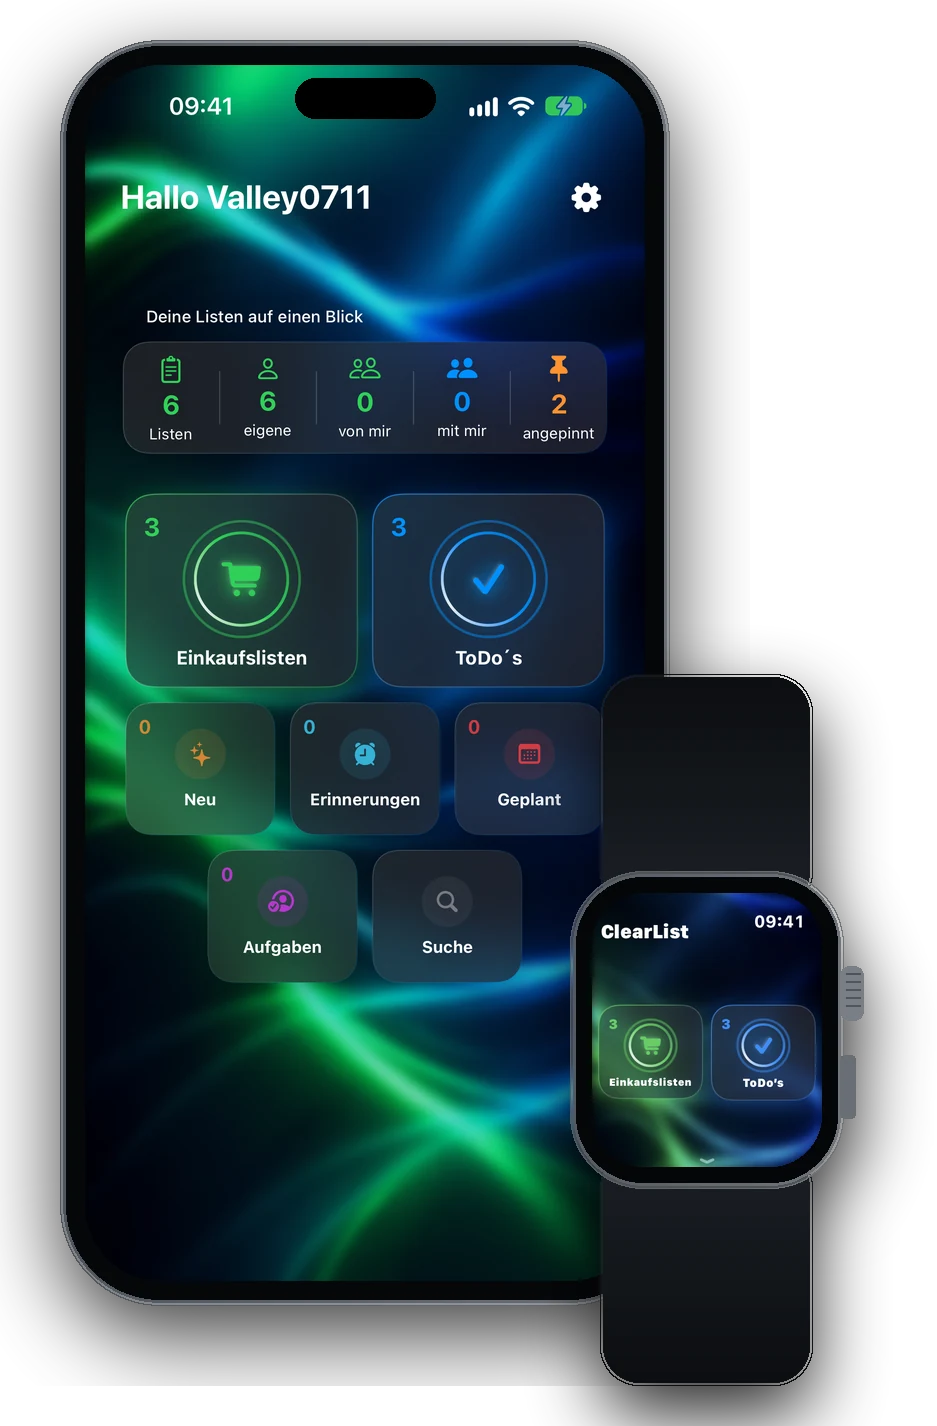
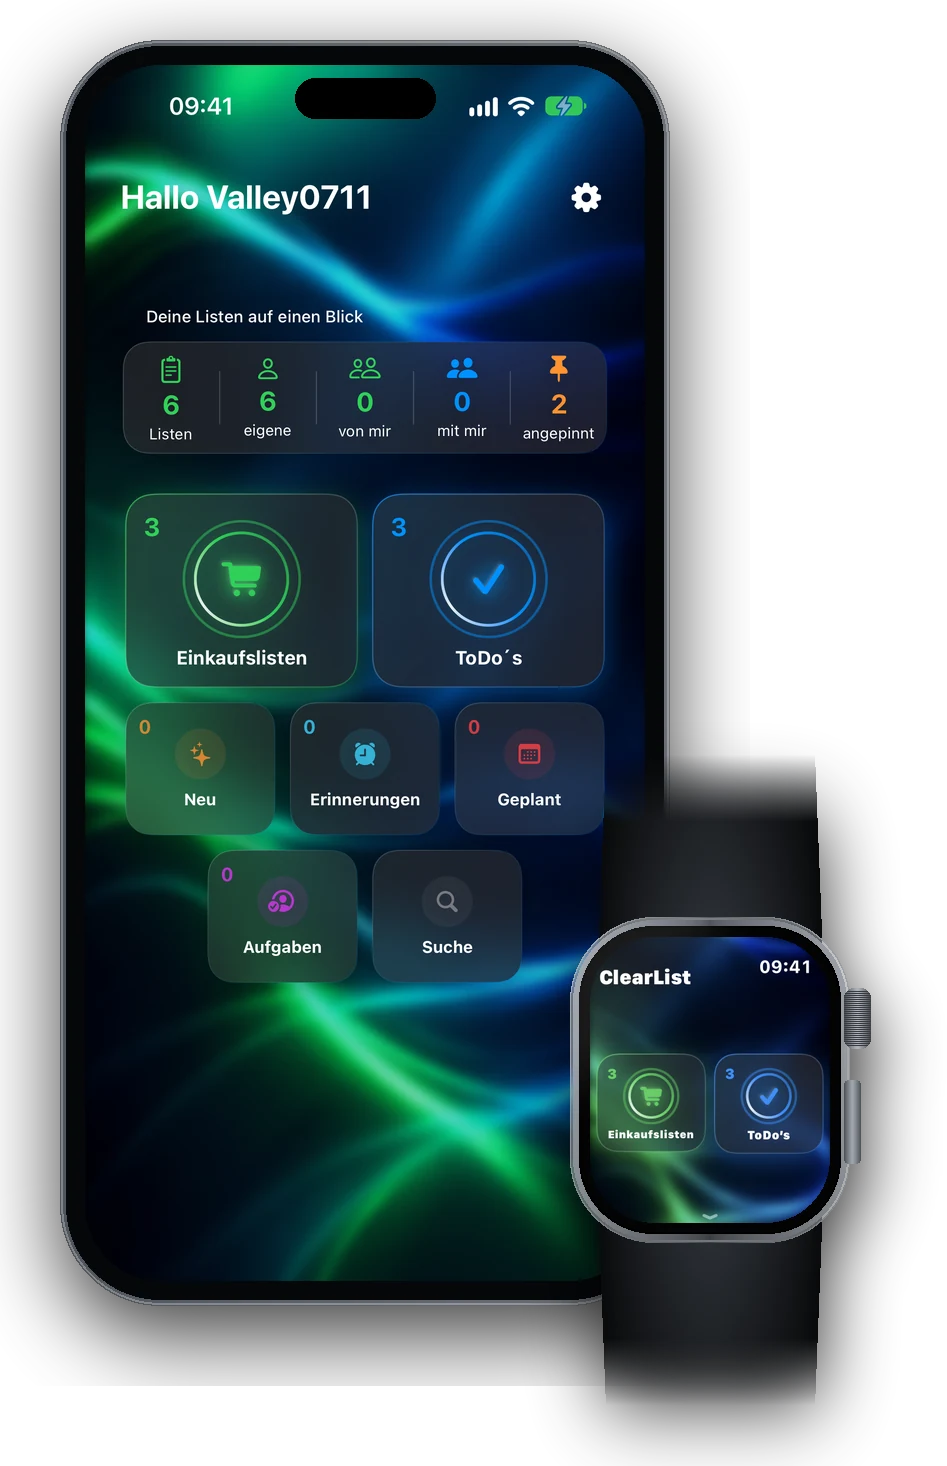
ClearList-Seite: Apple Watch mit Gehaeuse, Krone und Armband realistischer
Claude-Session: https://claude.ai/code/session_01AtYGo9kMH9DZpHi3e3ceu2

diff --git a/clearlist/index.html b/clearlist/index.html
@@ -1,7 +1,7 @@
 <!doctype html>
 <html lang="de"><head><meta charset="utf-8"><meta name="viewport" content="width=device-width,initial-scale=1">
 <meta name="description" content="ClearList macht gemeinsame Einkaufslisten und ToDos einfach – privat geteilt, über iCloud synchronisiert und direkt in iMessage verfügbar.">
-<meta name="robots" content="index,follow"><meta name="theme-color" content="#06110f"><title>ClearList – Gemeinsame Listen, einfach erledigt</title><link rel="stylesheet" href="style.css?v=20261002e"><link rel="canonical" href="https://valley0711.de/clearlist/">
+<meta name="robots" content="index,follow"><meta name="theme-color" content="#06110f"><title>ClearList – Gemeinsame Listen, einfach erledigt</title><link rel="stylesheet" href="style.css?v=20261002f"><link rel="canonical" href="https://valley0711.de/clearlist/">
 <link rel="icon" href="/favicon.ico" sizes="any">
 <link rel="icon" type="image/png" sizes="32x32" href="/clearlist/clearlist-icon-32.png">
 <link rel="apple-touch-icon" href="/clearlist/clearlist-icon-180.png">
@@ -19,7 +19,7 @@
 </head>
 <body><div class="wrap"><div class="valley-bar"><a href="https://valley0711.de">← VALLEY 0711</a><a href="https://valley0711.de/apps/">Alle Apps</a></div>
 <nav class="nav"><a class="brand" href="index.html"><img src="clearlist-app-icon.png" alt="ClearList App-Icon">ClearList</a><div class="links"><a href="#funktionen">Funktionen</a><a href="#einblicke">Einblicke</a><a href="#geraete">Geräte</a><a href="support.html">Support</a></div></nav>
-<main><section class="hero"><div><p class="eyebrow">GEMEINSAM EINFACH ERLEDIGEN</p><h1>Alles im Blick.<br><span>Mit ClearList.</span></h1><p class="lead">Erstelle Einkaufslisten und ToDos, teile sie mit Familie, Freunden oder deinem Partner und bearbeitet sie gemeinsam.</p><div class="buttons"><a class="button primary" href="https://apps.apple.com/de/app/clearlist/id6739069419">Im App Store laden</a><a class="button" href="#funktionen">Funktionen entdecken</a></div></div><div class="visual"><img class="hero-devices" src="clearlist-hero-devices.webp" alt="ClearList auf iPhone und Apple Watch" width="937" height="1426"><div class="status"><b>●</b> Bereit für gemeinsame Listen</div></div></section>
+<main><section class="hero"><div><p class="eyebrow">GEMEINSAM EINFACH ERLEDIGEN</p><h1>Alles im Blick.<br><span>Mit ClearList.</span></h1><p class="lead">Erstelle Einkaufslisten und ToDos, teile sie mit Familie, Freunden oder deinem Partner und bearbeitet sie gemeinsam.</p><div class="buttons"><a class="button primary" href="https://apps.apple.com/de/app/clearlist/id6739069419">Im App Store laden</a><a class="button" href="#funktionen">Funktionen entdecken</a></div></div><div class="visual"><img class="hero-devices" src="clearlist-hero-devices.webp" alt="ClearList auf iPhone und Apple Watch" width="947" height="1466"><div class="status"><b>●</b> Bereit für gemeinsame Listen</div></div></section>
 <section id="funktionen" class="section"><p class="eyebrow">EINFACH UND GEMEINSAM</p><h2>Eine Liste. Alle auf demselben Stand.</h2><p class="sub">Ob Wocheneinkauf, Urlaubsplanung oder gemeinsame Aufgaben – Einträge lassen sich hinzufügen, abhaken oder löschen und bleiben über iCloud aktuell.</p><div class="grid"><article class="card"><small>01</small><h3>Einkaufslisten &amp; ToDos</h3><p>Erstelle übersichtliche Listen für Einkäufe, Aufgaben und gemeinsame Pläne.</p></article><article class="card"><small>02</small><h3>Privat teilen</h3><p>Nur ausdrücklich eingeladene Personen erhalten Zugriff – ohne öffentliche Listenlinks.</p></article><article class="card"><small>03</small><h3>Über iCloud synchron</h3><p>Gemeinsame Änderungen werden mit CloudKit auf allen beteiligten Geräten aktuell gehalten.</p></article><article class="card"><small>04</small><h3>Direkt in iMessage</h3><p>Öffne und verwende ClearList direkt in deinen Unterhaltungen.</p></article></div></section>
 <section id="einblicke" class="section"><p class="eyebrow">SO SIEHT CLEARLIST AUS</p><h2>Übersichtlich. Reduziert. Direkt.</h2><p class="sub">ClearList konzentriert sich auf das Wesentliche: schnell eine Liste erstellen, gemeinsam bearbeiten und erledigen.</p><div class="gallery promo"><figure><img src="clearlist-promo-1.jpg" alt="Startseite von ClearList" loading="lazy"><figcaption><b>Alles auf einen Blick.</b><span>Listen anpinnen, terminieren und mit Priorität, Tags und Erinnerung versehen.</span></figcaption></figure><figure><img src="clearlist-promo-2.jpg" alt="Einkaufsliste Grillen mit Freunden" loading="lazy"><figcaption><b>Für den nächsten Einkauf.</b><span>Abhaken, priorisieren und Einträge an Personen zuweisen.</span></figcaption></figure><figure><img src="clearlist-promo-3.jpg" alt="ToDo-Liste Garage aufräumen" loading="lazy"><figcaption><b>Aufgaben gemeinsam erledigen.</b><span>Einträge terminieren, erinnern lassen und gezielt zuweisen.</span></figcaption></figure><figure><img src="clearlist-promo-4.jpg" alt="Suche nach Personen in ClearList" loading="lazy"><figcaption><b>Schnell gefunden.</b><span>Suche nach Listen, Einträgen, Tags und zugewiesenen Personen.</span></figcaption></figure></div></section>
 <section id="geraete" class="section devices"><p class="eyebrow">ÜBERALL DABEI</p><h2>iPhone, iPad, Apple Watch und CarPlay.</h2><p class="sub">Deine Listen sind auf allen Geräten auf demselben Stand – groß auf dem iPad, schnell am Handgelenk und übersichtlich im Auto.</p><div class="device-row promo"><figure><img src="clearlist-promo-6.jpg" alt="ClearList auf iPad, iPhone und Apple Watch" loading="lazy"><figcaption><b>iPhone, iPad und Apple Watch.</b><span>Die volle Übersicht auf dem iPad, schnell abhaken am Handgelenk.</span></figcaption></figure><figure><img src="clearlist-promo-7.jpg" alt="ClearList in CarPlay" loading="lazy"><figcaption><b>CarPlay.</b><span>Einkaufslisten und ToDos übersichtlich für die Fahrt aufbereitet.</span></figcaption></figure></div><div class="device-row"><figure><img src="clearlist-ipad.jpg" alt="ClearList auf dem iPad" loading="lazy"><figcaption><b>iPad.</b><span>Im Hoch- und Querformat.</span></figcaption></figure><figure><img src="clearlist-ipad-imessage.jpg" alt="ClearList in iMessage auf dem iPad" loading="lazy"><figcaption><b>iMessage auf dem iPad.</b><span>Listen direkt in der Unterhaltung öffnen und bearbeiten.</span></figcaption></figure></div></section><section class="section imessage"><div><p class="eyebrow">CLEARLIST IN NACHRICHTEN</p><h2>Listen direkt in iMessage.</h2><p class="sub">Mit der integrierten iMessage-Erweiterung kannst du Einkaufslisten und ToDos anzeigen, gemeinsam bearbeiten und direkt in deinen Unterhaltungen verwenden.</p></div><div class="promo-single"><img src="clearlist-promo-5.jpg" alt="ClearList in iMessage, kompakt und erweitert" loading="lazy"></div></section>
